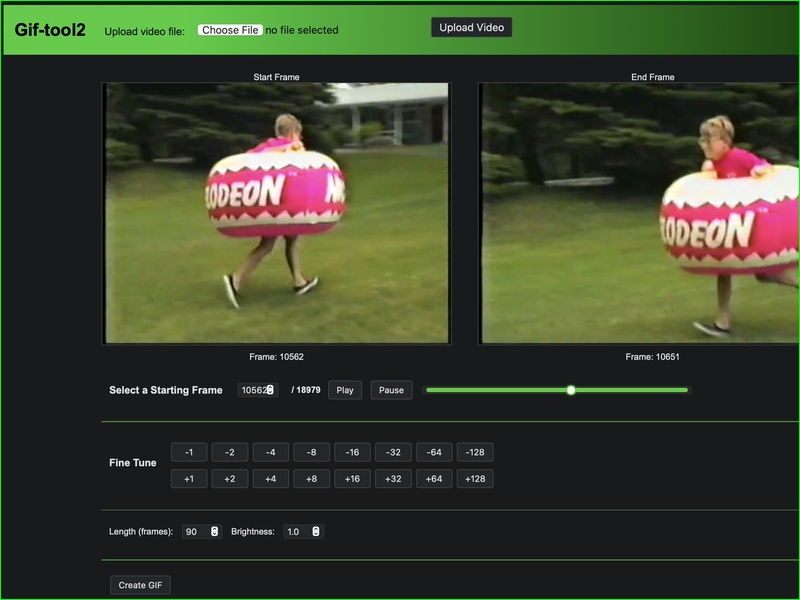
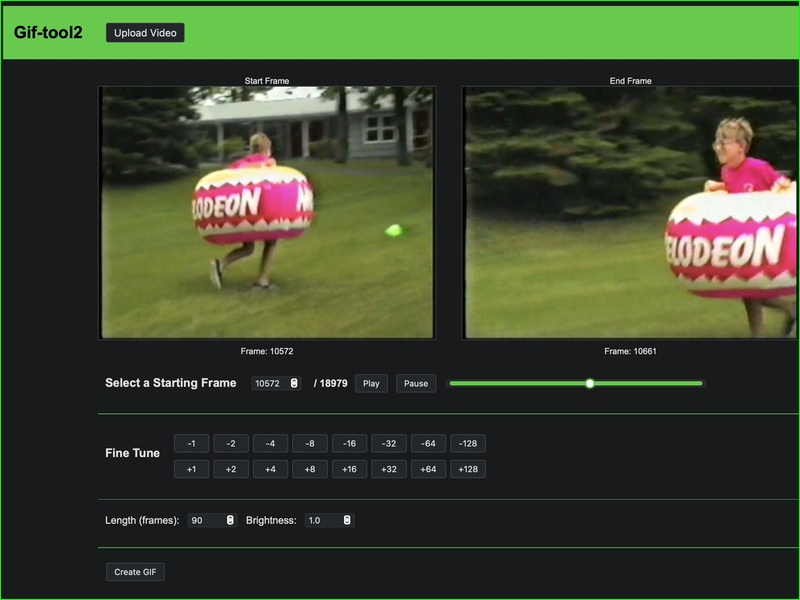
Refactor video upload functionality to use a button click for file selection; update HTML structure for better accessibility and user experience

diff --git a/src/giftool2/static/app.js b/src/giftool2/static/app.js
@@ -1,16 +1,22 @@
-document.getElementById('uploadForm').onsubmit = async function (e) {
-    e.preventDefault();
-    const formData = new FormData(document.getElementById('uploadForm'));
-    let resp = await fetch('/upload_video', {
-        method: 'POST',
-        body: formData
-    });
-    if (resp.ok) {
-        location.reload();
-    } else {
-        alert('Failed to upload video.');
+document.getElementById('uploadBtn').onclick = function () {
+    document.getElementById('videoFile').click();
+};
+document.getElementById('videoFile').onchange = async function () {
+    if (this.files.length > 0) {
+        const formData = new FormData(document.getElementById('uploadForm'));
+        let resp = await fetch('/upload_video', {
+            method: 'POST',
+            body: formData
+        });
+        if (resp.ok) {
+            // Optionally, you can reload or update UI here
+            location.reload();
+        } else {
+            alert('Failed to upload video.');
+        }
     }
 };
+
 let frame = 0;
 let frameCount = 0;
 let playInterval = null;

diff --git a/src/giftool2/templates/index.html b/src/giftool2/templates/index.html
@@ -9,9 +9,8 @@
     <div class="nav-container">
         <h1>Gif-tool2</h1>
         <form id="uploadForm" method="post" enctype="multipart/form-data" action="/upload_video">
-            <!-- <label for="videoFile">Upload video file:</label> -->
-            <input type="file" id="videoFile" name="videoFile" accept="video/*" required />
-            <button type="submit">Upload Video</button>
+            <input type="file" id="videoFile" name="videoFile" accept="video/*" required style="display:none;" />
+            <button type="button" id="uploadBtn">Upload Video</button>
         </form>
     </div>
 </nav>

diff --git a/src/giftool2/static/style.css b/src/giftool2/static/style.css
@@ -15,7 +15,7 @@ body {
 nav {
     display: flex;
     /* align-items: start; */
-    background: linear-gradient(90deg, limegreen 20%, #012f01 100%);
+    background: linear-gradient(90deg, limegreen 90%, #012f01 100%);
     padding: 12px 20px;
     width: 100vw;
     box-sizing: border-box;
